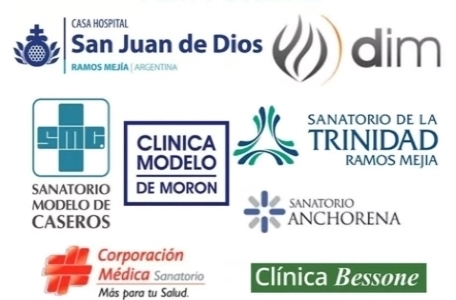
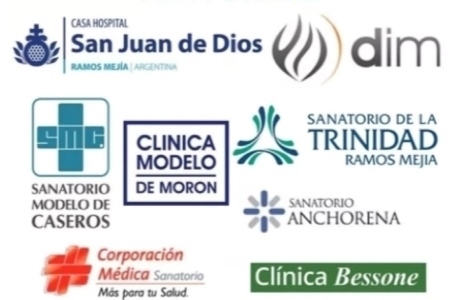
agregue_carrusel

diff --git a/planes.html b/planes.html
@@ -23,24 +23,34 @@
                
             </ul>
         </nav>
-    
     </header>
-   <div class="contenedor_prestadores">
-     <div class="clinicas">
-        <h3>ZONA OESTE</h3>
-        <img src="./imagenes/CLINICAS 1.jpg" alt="oeste">
-     </div>
-     <div class="clinicas">
-        <h3>ZONA SUR</h3>
-        <img src="./imagenes/CLINICAS 2.jpg" alt="sur2">
-     </div>
-     <div class="clinicas">
-        <h3>ZONA NORTE</h3>
-        <img src="./imagenes/CLINICAS 3.jpg" alt="norte">
-       </div>
-   </div>
+   
+   <section class="sanatorios"> 
+   <div id="carouselExampleControls" class="carousel slide" data-bs-ride="carousel">
+    <div class="carousel-inner">
+      <div class="carousel-item active">
+        <img src="./imagenes/CLINICAS 1.jpg" class="d-block " alt="clinica1">
+      </div>
+      <div class="carousel-item">
+        <img src="./imagenes/CLINICAS 2.jpg" class="d-block " alt="clinica2">
+      </div>
+      <div class="carousel-item">
+        <img src="./imagenes/CLINICAS 3.jpg" class="d-block " alt="clinica3">
+      </div>
+    </div>
+    <button class="carousel-control-prev" type="button" data-bs-target="#carouselExampleControls" data-bs-slide="prev">
+      <span class="carousel-control-prev-icon" aria-hidden="true"></span>
+      <span class="visually-hidden">Previous</span>
+    </button>
+    <button class="carousel-control-next" type="button" data-bs-target="#carouselExampleControls" data-bs-slide="next">
+      <span class="carousel-control-next-icon" aria-hidden="true"></span>
+      <span class="visually-hidden">Next</span>
+    </button>
+  </div>
+</section>
 
-       
+
+   <script src="https://cdn.jsdelivr.net/npm/bootstrap@5.2.1/dist/js/bootstrap.bundle.min.js" integrity="sha384-u1OknCvxWvY5kfmNBILK2hRnQC3Pr17a+RTT6rIHI7NnikvbZlHgTPOOmMi466C8" crossorigin="anonymous"></script>   
     <footer>
         <div class="pie_pagina"> 
         <img src="./imagenes/logos-pie-cartafusion_2_100px.png" alt="pie">

diff --git a/css/style.css b/css/style.css
@@ -49,13 +49,14 @@ section{
     
 }
 .titulo_principal {
-    color: #0b2739;
+    color: #034081;
     justify-items: center;
     padding: 20px;
     align-items: center;
     height: auto;
     width: auto;
     text-align: center;
+    font-family: Georgia, 'Times New Roman', Times, serif;
    
     
 }
@@ -69,6 +70,7 @@ section{
 
 .row.g-3{
     margin: auto;
+    color: #034081;
 }
  form {
     
@@ -100,7 +102,7 @@ div.cotizador {
     text-align: center;
     padding: 10px;
     margin: 20px;
-    color: #019df4;
+    color: #034081;
  }
 
  div.principal{
@@ -138,23 +140,10 @@ div.foto-contacto{
 section.planes_omint{
     background-color: #0b2739;
 }
-.contenedor_prestadores {
-    display: flex;
-    background-color: #0b2739;
-    gap: 10px;
-    padding: 30px;
-    text-align: center;
-    color: white;
-    font-family: sans-serif;
-    justify-content: space-between;
-}
 
-.clinicas img {
-    width: 100%;
-    height: auto;
-    border: #019df4;
-    border: solid 1px;
-}
+
+
+
 .contenedor_ventas{
     display: flex;
     background-color: #f1f1f1;
@@ -173,6 +162,18 @@ form.form_padre{
 }
 div.ventas{
     color: #0b2739;
+}
+
+
+
+.sanatorios{
+    display: inline;
+    display: flex;
+    align-items: center;
+    justify-content: center;
+   
+   
+
 }
 section.contacto{
     display: flex;

diff --git a/index.html b/index.html
@@ -12,7 +12,7 @@
 
 </head>
 <body>
-  <div> 
+  
     <header class="mystilo">
         <div>
             <img src="./imagenes/LOGO-Omint-BLANCO-LLAMA-BLANCA-Cmn-minuscula blanco para header.png" alt="logo">
@@ -29,11 +29,11 @@
             </ul>
         </nav>
     
-    </header> </div>
+    </header> 
 
 <section class="titulo_principal">
     <div>
-        <h1>CONTRATA  LA  MEJOR  COBERTURA  MEDICA  PARA VOS Y TU FAMILIA</h1>
+        <h1>EL PLAN MEDICO IDEAL PARA TU FAMLIA</h1>
         </div>
 </section>
 

diff --git a/ser socio.html b/ser socio.html
@@ -60,30 +60,9 @@
             <img src="./imagenes/PAREJA.jpg" alt="pereja">
         </div>
 
-
-
-
-
-
-
-
-
-
-
-
-
-
-
-
     </div>
 
-
-
-
-
-
-
-
+    <script src="https://cdn.jsdelivr.net/npm/bootstrap@5.2.1/dist/js/bootstrap.bundle.min.js" integrity="sha384-u1OknCvxWvY5kfmNBILK2hRnQC3Pr17a+RTT6rIHI7NnikvbZlHgTPOOmMi466C8" crossorigin="anonymous"></script>
     <footer>
         <div class="pie_pagina"> 
         <img src="./imagenes/logos-pie-cartafusion_2_100px.png" alt="pie">
